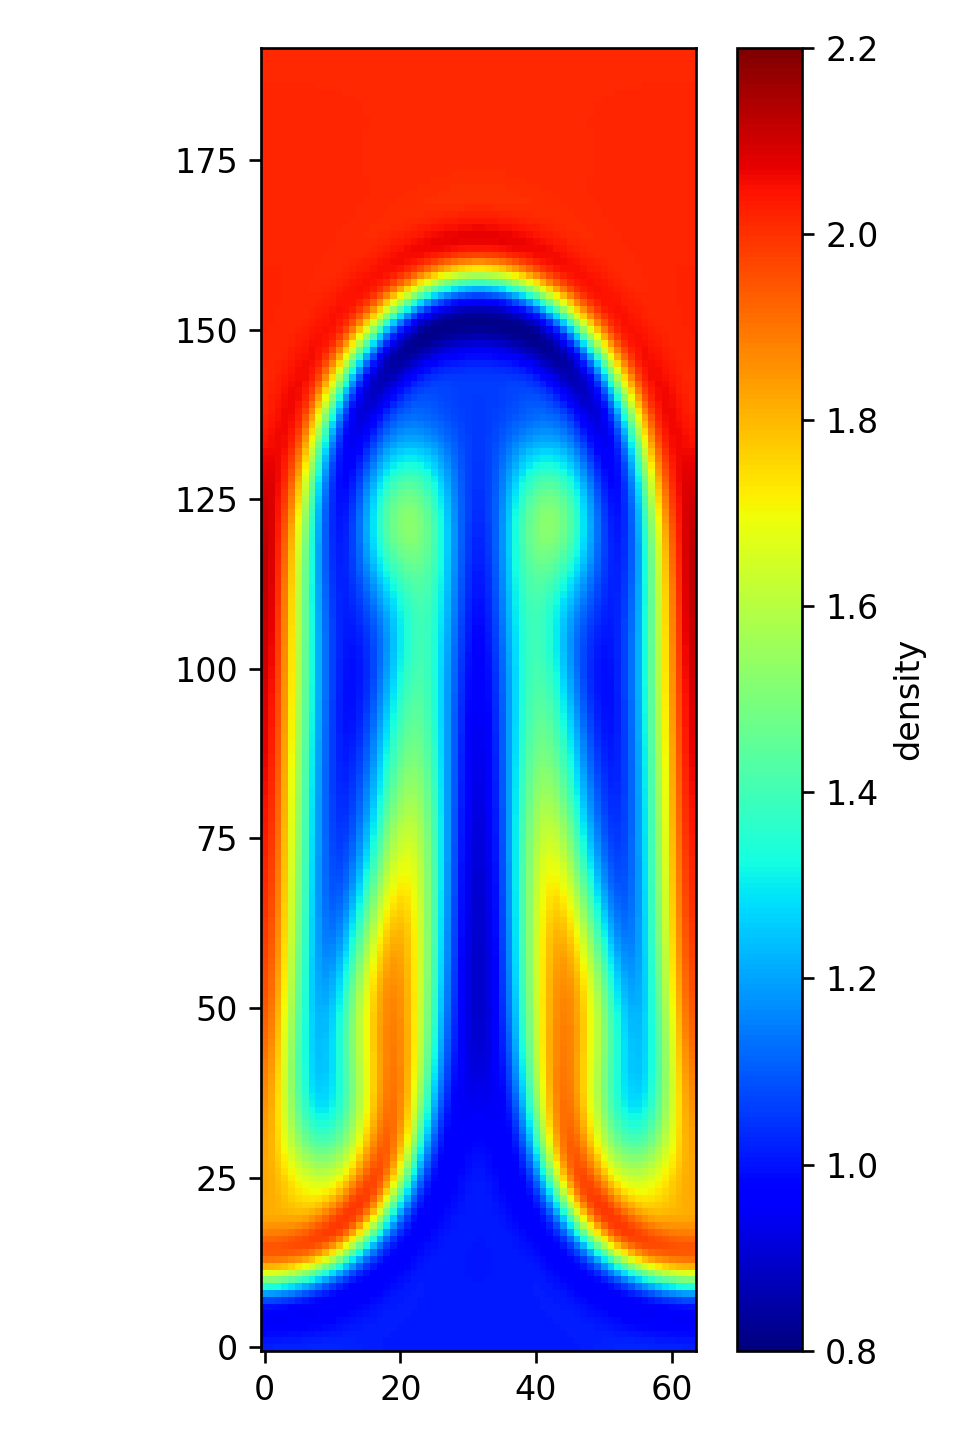
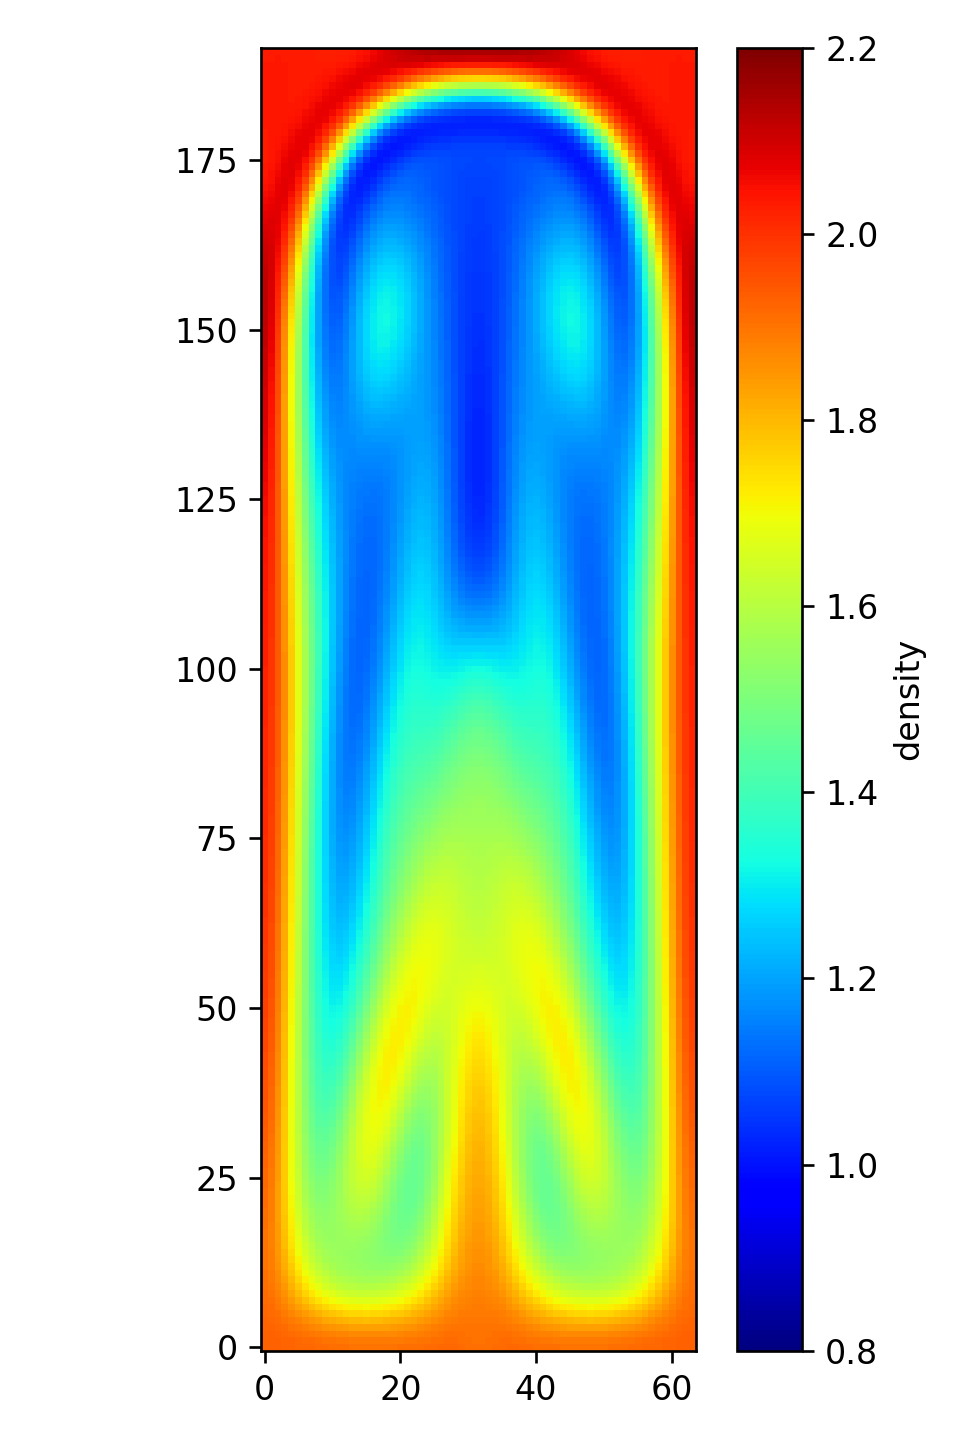
docs

diff --git a/examples/rayleigh_taylor/rayleigh_taylor.py b/examples/rayleigh_taylor/rayleigh_taylor.py
@@ -20,8 +20,8 @@ def set_up_simulation():
     # Define the parameters for the simulation
     nx = 64
     ny = 192
-    nt = 10000  #  -1
-    t_stop = 15.0
+    nt = 13000  #  -1
+    t_stop = 20.0
 
     params = {
         "physics": {

diff --git a/docs/pages/examples.rst b/docs/pages/examples.rst
@@ -8,33 +8,39 @@ Gallery
 -------
 
 .. list-table::
-   :widths: 32 32 32
+   :widths: 25 25 25 25
    :header-rows: 0
 
    * - .. figure:: ../../examples/kelvin_helmholtz/movie.gif
-         :width: 300px
+         :height: 200px
          :align: center
          :alt: kelvin_helmholtz
          :target: examples.html#kelvin-helmholtz
 
      - .. figure:: ../../examples/logo_inverse_problem/movie.gif
-         :width: 300px
+         :height: 200px
          :align: center
          :alt: logo_inverse_problem
          :target: examples.html#logo-inverse-problem
 
      - .. figure:: ../../examples/orszag_tang/movie.gif
-         :width: 300px
+         :height: 200px
          :align: center
          :alt: orszag_tang
          :target: examples.html#orszag-tang
+
+     - .. figure:: ../../examples/rayleigh_taylor/movie.gif
+         :height: 200px
+         :align: center
+         :alt: rayleigh_taylor
+         :target: examples.html#rayleigh-taylor
 
 
 kelvin_helmholtz
 ----------------
 
 .. figure:: ../../examples/kelvin_helmholtz/movie.gif
-  :width: 300px
+  :height: 300px
   :align: center
   :alt: kelvin_helmholtz
   :target: examples.html#kelvin-helmholtz
@@ -56,7 +62,7 @@ logo_inverse_problem
 --------------------
 
 .. figure:: ../../examples/logo_inverse_problem/movie.gif
-  :width: 300px
+  :height: 300px
   :align: center
   :alt: logo_inverse_problem
   :target: examples.html#logo-inverse-problem
@@ -78,7 +84,7 @@ orszag_tang
 -----------
 
 .. figure:: ../../examples/orszag_tang/movie.gif
-  :width: 300px
+  :height: 300px
   :align: center
   :alt: orszag_tang
   :target: examples.html#kelvin-helmholtz
@@ -94,3 +100,26 @@ Script:
 
 .. literalinclude:: ../../examples/orszag_tang/orszag_tang.py
   :language: python
+
+
+rayleigh_taylor
+---------------
+
+.. figure:: ../../examples/rayleigh_taylor/movie.gif
+  :height: 300px
+  :align: center
+  :alt: rayleigh_taylor
+  :target: examples.html#rayleigh-taylor
+
+  See on GitHub: `examples/rayleigh_taylor <https://github.com/AdirondaxProject/adirondax/tree/main/examples/rayleigh_taylor>`_
+
+README:
+
+.. literalinclude:: ../../examples/rayleigh_taylor/README.md
+  :language: md
+
+Script:
+
+.. literalinclude:: ../../examples/rayleigh_taylor/rayleigh_taylor.py
+  :language: python
+

diff --git a/README.md b/README.md
@@ -60,13 +60,16 @@ Check out the [`examples/`](https://github.com/Adirondax/adirondax/tree/main/exa
 
 <p align="center">
   <a href="https://github.com/Adirondax/adirondax/tree/main/examples/kelvin_helmholtz">
-    <img src="examples/kelvin_helmholtz/movie.gif" alt="kelvin_helmholtz" width="128"/>
+    <img src="examples/kelvin_helmholtz/movie.gif" alt="kelvin_helmholtz" height="128"/>
   </a>
   <a href="https://github.com/Adirondax/adirondax/tree/main/examples/logo_inverse_problem">
-    <img src="examples/logo_inverse_problem/movie.gif" alt="logo_inverse_problem" width="128"/>
+    <img src="examples/logo_inverse_problem/movie.gif" alt="logo_inverse_problem" height="128"/>
   </a>
   <a href="https://github.com/Adirondax/adirondax/tree/main/examples/orszag_tang">
-    <img src="examples/orszag_tang/movie.gif" alt="orszag_tang" width="128"/>
+    <img src="examples/orszag_tang/movie.gif" alt="orszag_tang" height="128"/>
+  </a>
+  <a href="https://github.com/Adirondax/adirondax/tree/main/examples/rayleigh_taylor">
+    <img src="examples/rayleigh_taylor/movie.gif" alt="orszag_tang" height="128"/>
   </a>
   <br>
 </p>

diff --git a/examples/rayleigh_taylor/README.md b/examples/rayleigh_taylor/README.md
@@ -10,7 +10,7 @@ Usage:
 python rayleigh_taylor.py
 ```
 
-Takes around 7 seconds to run on my macbook (cpu).
+Takes around 9 seconds to run on my macbook (cpu).
 
 
 ## Simulation snapshots
